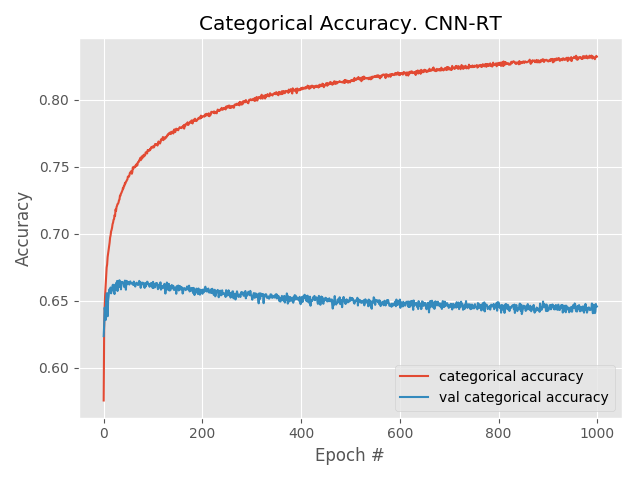
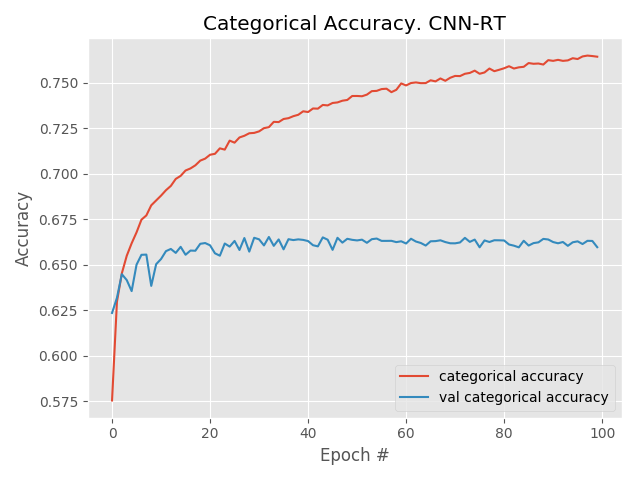
plots

diff --git a/graphics.py b/graphics.py
@@ -56,8 +56,8 @@ plt.show()
 
 
 plt.style.use("ggplot")
-plt.plot(np.arange(0, 1000), cnn_rt_acc,label = 'categorical accuracy')
-plt.plot(np.arange(0, 1000), cnn_rt_val_acc,label = 'val categorical accuracy')
+plt.plot(np.arange(0, 100), cnn_rt_acc[:100],label = 'categorical accuracy')
+plt.plot(np.arange(0, 100), cnn_rt_val_acc[:100],label = 'val categorical accuracy')
 plt.title("Categorical Accuracy. CNN-RT")
 plt.xlabel("Epoch #")
 plt.ylabel("Accuracy")
@@ -76,8 +76,8 @@ lstm_tw_mean_absolute_error = lstm_tw_history['mean_absolute_error']
 
 
 plt.style.use("ggplot")
-plt.plot(np.arange(0, 100), lstm_tw_loss,label = 'categorical crossentropy')
-plt.plot(np.arange(0, 100), lstm_tw_mean_absolute_error,label = 'mean absolute error')
+plt.plot(np.arange(0, 100), lstm_tw_loss[:100],label = 'categorical crossentropy')
+plt.plot(np.arange(0, 100), lstm_tw_mean_absolute_error[:100],label = 'mean absolute error')
 plt.title("Categorical Crossentropy and MAE. LSTM-Twitter140")
 plt.xlabel("Epoch #")
 plt.ylabel("Loss")
